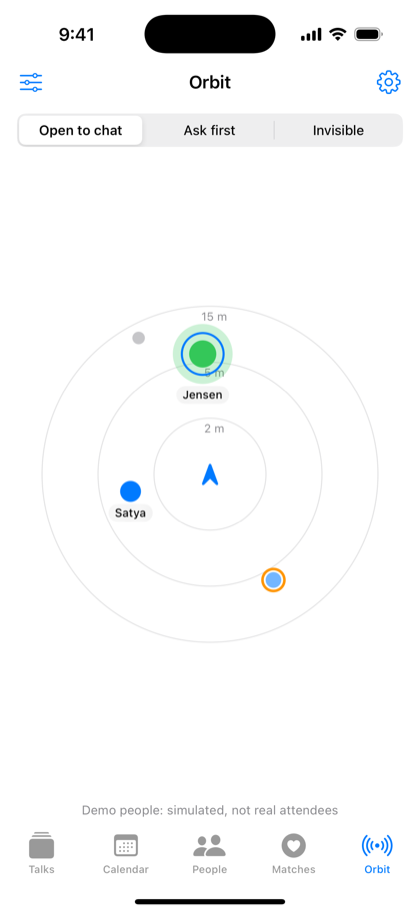
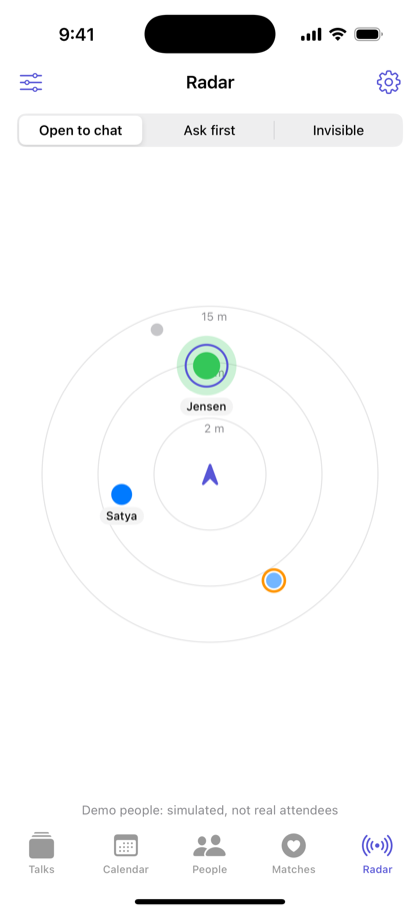
Rename the project to Affinity
- App name on the home screen, onboarding wordmark, permission prompts,
  calendar event notes and in-app messages now say Affinity; the radar
  tab and screen are called Radar
- README, radar banner graphic, docs and plans renamed; screenshots
  retaken with the new names
- Unchanged on purpose: Xcode target and folders (ios/Orbit), bundle id,
  Swift type names, the orbit-cnh Bluetooth service id and backend
  trace and package names, so nothing breaks before the demo

diff --git a/ios/Orbit/Calendar/CalendarExporter.swift b/ios/Orbit/Calendar/CalendarExporter.swift
@@ -27,7 +27,7 @@ final class CalendarExporter {
             switch self {
             case let .added(n): "Added \(n) event\(n == 1 ? "" : "s") to your calendar."
             case .nothingNew: "Everything is already in your calendar."
-            case .denied: "Orbit needs calendar access. Open Settings › Orbit › Calendars to turn it on."
+            case .denied: "Affinity needs calendar access. Open Settings › Affinity › Calendars to turn it on."
             case let .failed(detail): "Couldn't write to the calendar. \(detail)"
             }
         }
@@ -75,7 +75,7 @@ final class CalendarExporter {
                 location: $0.room,
                 start: $0.start,
                 end: $0.end,
-                notes: $0.must ? "Must-attend · saved in Orbit" : "Saved in Orbit"
+                notes: $0.must ? "Must-attend · saved in Affinity" : "Saved in Affinity"
             )
         })
     }
@@ -83,7 +83,7 @@ final class CalendarExporter {
     /// Called when a meetup is accepted, from either side.
     @discardableResult
     func addMeetup(_ meetup: Meetup, withName name: String?) async -> Outcome {
-        let who = name ?? "your Orbit match"
+        let who = name ?? "your Affinity match"
         return await write([
             Draft(
                 key: meetup.id,
@@ -91,7 +91,7 @@ final class CalendarExporter {
                 location: meetup.place,
                 start: meetup.start,
                 end: meetup.end,
-                notes: "Orbit meetup at \(meetup.place). Open Orbit and tap Find to walk over."
+                notes: "Affinity meetup at \(meetup.place). Open Affinity and tap Find to walk over."
             )
         ])
     }

diff --git a/ios/Orbit/Core/APIClient.swift b/ios/Orbit/Core/APIClient.swift
@@ -155,7 +155,7 @@ final class APIClient {
             let all: [RadarResult] = try Self.stub("stub_radar_match")
             // Real phones in stub mode get "strong" so the glow can be tested between two iPhones.
             return others.map { pid in
-                all.first { $0.pid == pid } ?? RadarResult(pid: pid, tier: .strong, reason: "Another Orbit user nearby (stub data)")
+                all.first { $0.pid == pid } ?? RadarResult(pid: pid, tier: .strong, reason: "Another Affinity user nearby (stub data)")
             }
         }
         return try await request("POST", "radar/match", body: RadarMatchRequest(me: me, others: others))

diff --git a/ios/Orbit/Radar/FindView.swift b/ios/Orbit/Radar/FindView.swift
@@ -65,7 +65,7 @@ struct FindView: View {
     }
 
     private var hint: String {
-        guard let peer else { return "\(name) isn't in range. Walk around a bit, or ask them to open Orbit." }
+        guard let peer else { return "\(name) isn't in range. Walk around a bit, or ask them to open Affinity." }
         if isClose { return "You're here. Say hi to \(peer.firstName)!" }
         if peer.distance == nil { return "\(peer.firstName) is nearby. Distance shows up once you're both a little closer." }
         if peer.bearing == nil { return "Follow the distance. This iPhone can't show direction." }

diff --git a/ios/Orbit/Onboarding/OnboardingView.swift b/ios/Orbit/Onboarding/OnboardingView.swift
@@ -40,7 +40,7 @@ struct OnboardingView: View {
             VStack(spacing: 22) {
                 VStack(spacing: 8) {
                     Avatar(name: name.isEmpty ? "?" : name, github: github, size: 80)
-                    Text("Orbit")
+                    Text("Affinity")
                         .font(.system(size: 36, weight: .bold, design: .rounded))
                         .foregroundStyle(Theme.brand)
                     Text("Find your people at the conference")

diff --git a/ios/Orbit/App/OrbitApp.swift b/ios/Orbit/App/OrbitApp.swift
@@ -50,7 +50,7 @@ struct RootTabView: View {
                 .tabItem { Label("Matches", systemImage: "heart.circle") }
                 .tag(AppTab.matches)
             RadarView()
-                .tabItem { Label("Orbit", systemImage: "dot.radiowaves.left.and.right") }
+                .tabItem { Label("Radar", systemImage: "dot.radiowaves.left.and.right") }
                 .tag(AppTab.orbit)
         }
     }

diff --git a/ios/Orbit/Matches/MatchDetailView.swift b/ios/Orbit/Matches/MatchDetailView.swift
@@ -64,7 +64,7 @@ struct MatchDetailView: View {
                 } label: {
                     Label("Find on radar", systemImage: "dot.radiowaves.left.and.right")
                 }
-                .accessibilityLabel("Find \(firstName) on the Orbit radar")
+                .accessibilityLabel("Find \(firstName) on the radar")
             }
         }
         .overlay(alignment: .top) { bannerView }

diff --git a/ios/Orbit/Radar/RadarView.swift b/ios/Orbit/Radar/RadarView.swift
@@ -35,7 +35,7 @@ struct RadarView: View {
             }
             .padding(.horizontal)
             .padding(.bottom, 8)
-            .navigationTitle("Orbit")
+            .navigationTitle("Radar")
             .navigationBarTitleDisplayMode(.inline)
             .toolbar {
                 ToolbarItem(placement: .topBarLeading) {

diff --git a/PLAN.md b/PLAN.md
@@ -1,16 +1,16 @@
-# Orbit — build plan
+# Affinity — build plan
 
 > Cloud Native Hackathon (WeMakeDevs × KubeCon NA), Salt Lake City, Nov 9 2026.
 > Written at **2:40 PM MT**. Submissions close at **5:30 PM**.
 >
 > One iPhone app that combines **HallwayTrack** (swipe on talks → your calendar → matched people →
-> where you can meet) and **Orbit** (a live radar of who's near you).
+> where you can meet) and **Affinity** (a live radar of who's near you).
 > [`PLAN_ORBIT.md`](PLAN_ORBIT.md) remains as the detailed reference for the proximity work.
 
 ## One-liner
 
 **Swipe to build your conference. Get matched with people who share your interests. See where you
-can meet. When they're nearby, Orbit points the way.**
+can meet. When they're nearby, Affinity points the way.**
 
 ## Pitch hook
 
@@ -23,7 +23,7 @@ can meet. When they're nearby, Orbit points the way.**
 ## The user flow (5 steps)
 
 ```
-1. Onboard ─► 2. Swipe talks ─► 3. My calendar ─► 4. Swipe people ─► 5. Match: where we can meet ─► 6. Orbit radar + Find
+1. Onboard ─► 2. Swipe talks ─► 3. My calendar ─► 4. Swipe people ─► 5. Match: where we can meet ─► 6. Affinity radar + Find
    profile      (Elastic)          (EventKit)        (reciprocal)       (partial calendar reveal)       (live, peer to peer)
 ```
 
@@ -55,7 +55,7 @@ can meet. When they're nearby, Orbit points the way.**
      1. A shared talk: "Meet at the Room 155 door when 'eBPF at Scale' ends (3:40)"
      2. Overlapping free time: "Coffee by Hall B, Tue 2:45–3:15", a spot between both previous rooms
    - **Propose → Accept**: once both accept, the meetup is added to both in-app calendars and the iPhone Calendar.
-6. **📡 Orbit radar** (live, in the room)
+6. **📡 Affinity radar** (live, in the room)
    - Shows nearby people as dots on distance rings (< 2m, 2–5m, 5–15m), found phone-to-phone.
    - **Your matches glow brightest**, recommended people glow softly, and everyone else is dimmed.
    - Tap a dot to open their card. For a match it shows the meetup and the times you're both free.
@@ -82,7 +82,7 @@ can meet. When they're nearby, Orbit points the way.**
 
 ```
 ┌──────────────────────────── iPhone app (SwiftUI) ────────────────────────────┐
-│ Onboarding │ Talks deck │ My Calendar │ People deck │ Matches │ Orbit radar   │
+│ Onboarding │ Talks deck │ My Calendar │ People deck │ Matches │ Affinity radar   │
 │                              │ EventKit                         │ Multipeer   │
 │                              ▼                                  │ + NI (UWB)  │
 │                         iPhone Calendar                         ▼             │
@@ -106,7 +106,7 @@ can meet. When they're nearby, Orbit points the way.**
 
 Each person owns separate files, so nobody blocks anyone else after the first 10 minutes.
 
-| | **A: Jenish (iOS core + Orbit)** | **B: Arjun (backend + Elastic)** | **C: third teammate (iOS screens)** |
+| | **A: Jenish (iOS core + Affinity)** | **B: Arjun (backend + Elastic)** | **C: third teammate (iOS screens)** |
 |---|---|---|---|
 | **Mission** | App shell + the live radar | The brain: profiles, recommendations, matching, meetups | The swipe → calendar → match experience |
 | **Owns** | `ios/Orbit/App/**`, `ios/Orbit/Core/**` (API client, models), `ios/Orbit/Onboarding/**`, `ios/Orbit/Radar/**`, the Xcode project file | `backend/**`, `data/**` | `ios/Orbit/Talks/**`, `ios/Orbit/Calendar/**`, `ios/Orbit/People/**`, `ios/Orbit/Matches/**` |
@@ -257,7 +257,7 @@ Include a short reason.
 ## iOS details
 
 ### A: Jenish
-- **Stack:** SwiftUI on iOS 17+. A tab bar with **Talks · Calendar · People · Matches · Orbit**.
+- **Stack:** SwiftUI on iOS 17+. A tab bar with **Talks · Calendar · People · Matches · Affinity**.
 - **Shared code:**
   - `APIClient` (async/await, base URL from config, with a `useStubs` flag that loads bundled JSON).
   - `Models.swift`, generated from the shapes above.
@@ -280,7 +280,7 @@ Include a short reason.
   - Create an `EKEvent` for each saved talk and each accepted meetup. Put the room in `location` and the reason in `notes`.
   - Store the event ids so a talk isn't added twice.
 - **MyCalendarView:** a day timeline with talks as blocks, free time as dashed blocks, and clashes in red.
-- **MatchDetailView:** sections for shared talks, times you're both free, their next room, and suggestion cards with a **Propose** button. Show incoming proposals with **Accept** / **Decline**. Include a "Find on radar" button that opens Orbit with that person selected.
+- **MatchDetailView:** sections for shared talks, times you're both free, their next room, and suggestion cards with a **Propose** button. Show incoming proposals with **Accept** / **Decline**. Include a "Find on radar" button that opens Affinity with that person selected.
 
 ## Sponsor tracks
 
@@ -311,7 +311,7 @@ Include a short reason.
 3. Meetup propose/accept (show the suggestions only)
 4. GitHub extraction (topics typed by hand)
 5. Find arrow (distance only), then NearbyInteraction (Multipeer "nearby" only)
-6. Orbit on real phones (keep the radar on `MockProximityManager`)
+6. Affinity on real phones (keep the radar on `MockProximityManager`)
 
 **Never cut:** swipe talks → calendar → swipe people → match → "where we can meet". That's the core story.
 
@@ -322,7 +322,7 @@ Include a short reason.
 3. **Swipe talks** (25s): 4 swipes with reasons, then they appear in the iPhone Calendar.
 4. **Swipe people** (25s): "Priya needs what you offer, and you share 3 talks." Swipe right, **it's a match** (she already liked you).
 5. **Where we can meet** (25s): shared talk at 3:00 in Room 155, both free 3:40–4:10 → propose "Room 155 door at 3:40" → accepted → it's in both calendars.
-6. **Orbit** (40s): with the phone mirrored, Priya's dot **glows** on the radar. Tap **Find**, the arrow and distance count down 8m → 1m, handshake. She flips to 🔴 and vanishes.
+6. **Affinity** (40s): with the phone mirrored, Priya's dot **glows** on the radar. Tap **Find**, the arrow and distance count down 8m → 1m, handshake. She flips to 🔴 and vanishes.
 7. **Under the hood** (20s): the Elastic RRF query + reciprocal score, and a Dash0 trace. "No location ever leaves your phone, and matches see only the overlap of your calendars."
 
 ## Risks

diff --git a/README.md b/README.md
@@ -1,5 +1,5 @@
 <p align="center">
-  <img src="assets/orbit-radar.svg" alt="Orbit: an animated radar showing people near you at a conference, with your match pulsing as he walks toward you" width="100%">
+  <img src="assets/orbit-radar.svg" alt="Affinity: an animated radar showing people near you at a conference, with your match pulsing as he walks toward you" width="100%">
 </p>
 
 <p align="center">
@@ -15,11 +15,11 @@
 
 ---
 
-**Orbit** is an iPhone app for conferences:
+**Affinity** is an iPhone app for conferences:
 1. **Swipe** through talks, and your schedule builds itself.
 2. **Match** with people who need what you offer, and offer what you need.
 3. **See** only the overlap of your calendars: when and where you can meet.
-4. When they're **physically near you**, Orbit puts them on a live radar and points the way.
+4. When they're **physically near you**, Affinity puts them on a live radar and points the way.
 
 Built in one day at the **WeMakeDevs Cloud Native Hackathon**, Salt Lake City, during KubeCon NA 2026.
 
@@ -57,7 +57,7 @@ flowchart LR
   </tr>
   <tr>
     <td align="center"><img src="assets/screens/5-meet.png" alt="Where we can meet: shared talks, times you're both free, Jensen's next planned room and meetup suggestions" width="200"><br><b>Where we can meet</b><br><sub>Only the overlap is shared</sub></td>
-    <td align="center"><img src="assets/screens/6-radar.png" alt="Orbit radar: nearby people as dots on 2, 5 and 15 meter rings, with the match glowing" width="200"><br><b>Orbit radar</b><br><sub>Who's near you right now</sub></td>
+    <td align="center"><img src="assets/screens/6-radar.png" alt="Affinity radar: nearby people as dots on 2, 5 and 15 meter rings, with the match glowing" width="200"><br><b>Affinity radar</b><br><sub>Who's near you right now</sub></td>
     <td align="center"><img src="assets/screens/7-card.png" alt="Person card from the radar: Satya Rao, why you might talk, and a Find button" width="200"><br><b>Who they are</b><br><sub>One tap on a dot</sub></td>
     <td align="center"><img src="assets/screens/8-find.png" alt="Find: a large arrow pointing toward the person and the live distance" width="200"><br><b>Find</b><br><sub>Arrow + live distance</sub></td>
   </tr>
@@ -128,7 +128,7 @@ sequenceDiagram
     S-->>A: Glow tier and a reason for each person
 ```
 
-- **MultipeerConnectivity** finds nearby iPhones running Orbit the way AirDrop does, with no shared Wi-Fi needed.
+- **MultipeerConnectivity** finds nearby iPhones running Affinity the way AirDrop does, with no shared Wi-Fi needed.
 - **NearbyInteraction** uses the Ultra Wideband chip (iPhone 11 and newer, except SE) for precise distance and, on supported models, direction. Other phones fall back to distance only, or "nearby".
 - The backend only ever receives **profile ids**. It never knows where anyone is.
 
@@ -172,7 +172,7 @@ OpenTelemetry auto-instruments HTTP, Fastify and the Elastic client, with manual
 
 ## Sponsor tracks
 
-| Track | How Orbit uses it |
+| Track | How Affinity uses it |
 |---|---|
 | **Elasticsearch: Find the Right Talk** | The whole data layer: hybrid talk search with RRF and swipe feedback, reciprocal people matching, schedules and meetups |
 | **Dash0: Stop Flying Blind** | OpenTelemetry traces and metrics across the API, Elastic and LLM calls |
@@ -209,7 +209,7 @@ Environment variables (Elastic, OpenAI, Dash0) are in [`backend/README.md`](back
 | Simulated people move on the radar (Jensen walks toward you and back) | **Demo people** (radar menu). On by default in the Simulator |
 | Use the live backend instead | **Gear icon** → set the URL → turn off **Use stub data** |
 
-To test the radar for real you need **two iPhones** running Orbit, with Bluetooth and Wi-Fi on and **Demo people** off. See [`ios/README.md`](ios/README.md).
+To test the radar for real you need **two iPhones** running Affinity, with Bluetooth and Wi-Fi on and **Demo people** off. See [`ios/README.md`](ios/README.md).
 
 ## Repo layout
 
@@ -232,7 +232,7 @@ All talks and personas are **fictional**. They are not real KubeCon sessions or 
 
 | | Built |
 |---|---|
-| **Jenish Kothari** ([@jenishk20](https://github.com/jenishk20)) | iOS app core, Orbit radar and proximity engine, onboarding, README |
+| **Jenish Kothari** ([@jenishk20](https://github.com/jenishk20)) | iOS app core, Affinity radar and proximity engine, onboarding, README |
 | **Arjun** ([@Arjunprasaath](https://github.com/Arjunprasaath)) | Backend, Elasticsearch matching, personas and demo data |
 | **Lavisha Goyal** | Backend profile building and OpenTelemetry setup (`feature-branch/lavisha`) |
 | **TODO: name** | iOS swipe decks, calendar, matches and meet screens |

diff --git a/PLAN_ORBIT.md b/PLAN_ORBIT.md
@@ -1,4 +1,4 @@
-# Orbit — build plan
+# Affinity — build plan
 
 > Cloud Native Hackathon (WeMakeDevs × KubeCon NA), Salt Lake City, Nov 9 2026.
 > Submissions close **5:30 PM MT**. This plan was written at 2:27 PM, so we have **about 3 hours**.
@@ -33,7 +33,7 @@ A conference removes both:
 - thousands of people are packed into one building;
 - they came specifically to meet strangers.
 
-Orbit's design also never sends anyone's location to a server (see Privacy).
+Affinity's design also never sends anyone's location to a server (see Privacy).
 
 ## Features (in scope)
 
@@ -166,7 +166,7 @@ Steps:
 1. **Hook** (20s): "You walked past 50 people today who could have changed your career."
 2. **Problem** (30s): networking is why we come, and it's awkward and random. Apps give you a list of 9,000 people.
 3. **Live** (90s):
-   - Two teammates stand at opposite ends of the stage with Orbit open, and the phone screen is mirrored to the projector.
+   - Two teammates stand at opposite ends of the stage with Affinity open, and the phone screen is mirrored to the projector.
    - Dots appear on the radar: "Arjun · Platform eng · 8m · 🟢 Open to chat · You both work on Cilium."
    - Tap **Find**, and the arrow points across the stage while the distance counts down: 8m → 4m → 1m.
    - They meet and shake hands.
@@ -187,10 +187,10 @@ Steps:
 
 ## Relation to HallwayTrack ([`PLAN.md`](PLAN.md))
 
-HallwayTrack deliberately avoids live location and works from **planned** schedules. Orbit is the
+HallwayTrack deliberately avoids live location and works from **planned** schedules. Affinity is the
 **live, in-the-room** layer. If the team wants to combine them:
 - share the Elastic `profiles` index and the profile JSON shape;
-- HallwayTrack handles *"who should I meet and when"*, and Orbit handles *"they're 4m away right now."*
+- HallwayTrack handles *"who should I meet and when"*, and Affinity handles *"they're 4m away right now."*
 
 The two plans are independent. Pick one to build today, given about 3 hours.
 

diff --git a/ios/README.md b/ios/README.md
@@ -1,4 +1,4 @@
-# Orbit iOS app
+# Affinity iOS app
 
 SwiftUI, iOS 17+, Xcode 16.
 
@@ -23,5 +23,5 @@ The `Orbit/` folder is **synced**. Any `.swift` or `.json` file you drop into it
 - `Core/Models.swift` contains every type in the API contract (`PLAN.md`). `Core/APIClient.swift` has one async method per endpoint, e.g. `try await APIClient.shared.recommendedTalks(pid:)`.
 - **Stub mode is on by default.** Every call returns the JSON in `Core/Stubs/`, so screens work before the backend exists.
 - Switch to the live backend at runtime with the **gear icon** → Developer → set the base URL, then turn off "Use stub data".
-- The signed-in user is `appState.profile` (`@Environment(AppState.self)`). `appState.findOnRadar(pid:)` jumps to the Orbit tab.
+- The signed-in user is `appState.profile` (`@Environment(AppState.self)`). `appState.findOnRadar(pid:)` jumps to the Radar tab.
 - "Use the demo profile" on the onboarding screen skips straight to the tabs.

diff --git a/ios/TEAMMATE_C.md b/ios/TEAMMATE_C.md
@@ -27,7 +27,7 @@ touch the project file, and you never block Jenish.
 - Switch to the live backend from the **gear icon** → set the base URL → turn off "Use stub data".
 - On the onboarding screen, **"Use the demo profile"** skips straight to the tabs.
 - The signed-in pid is `appState.profile?.pid`. `appState.selectedTab = .calendar` moves tabs;
-  `appState.findOnRadar(pid:)` opens Orbit focused on someone.
+  `appState.findOnRadar(pid:)` opens Affinity focused on someone.
 
 ## Two things for Jenish, when there's a minute
 
